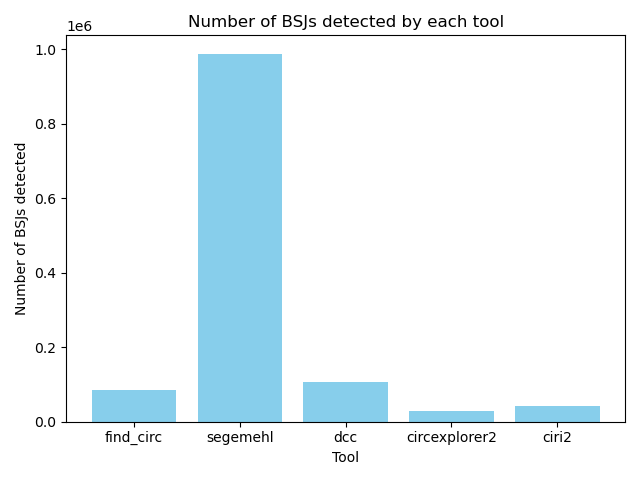
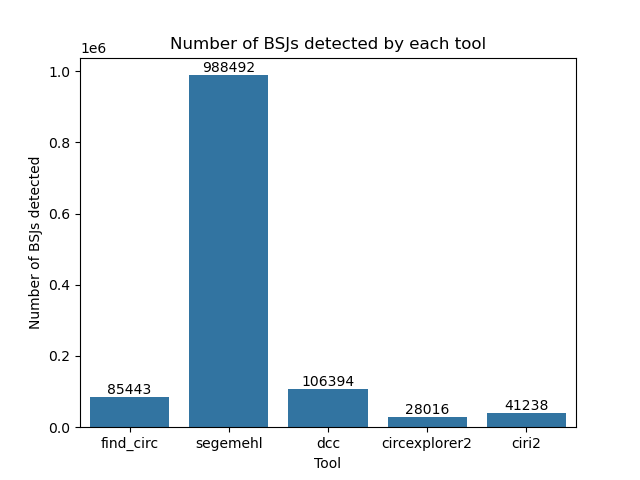
Add bar plot for detection tools

diff --git a/chapters/4_results_and_discussion/1_bsj_detection.tex b/chapters/4_results_and_discussion/1_bsj_detection.tex
@@ -6,6 +6,17 @@ While the nf-core/circrna pipeline provides a wider selection of tools, these
 are the only ones which work with single-end sequencing data.
 
 \begin{figure}[ht]
+    \centering
+
+    \includegraphics[width=0.7\textwidth]{chapters/4_results_and_discussion/figures/detection/n_bsjs_detected.png}
+    \caption{Number of BSJs detected by each tool.
+        While find\_circ, CIRI2, DCC and circexplorer2 detect a similar number of
+        BSJs, segemehl detects a much larger number of BSJs.
+    }
+    \label{fig:detection_bars}
+\end{figure}
+
+\begin{figure}[ht]
     \begin{tabular}{cc}
         \begin{subfigure}{.5\textwidth}
             \centering
